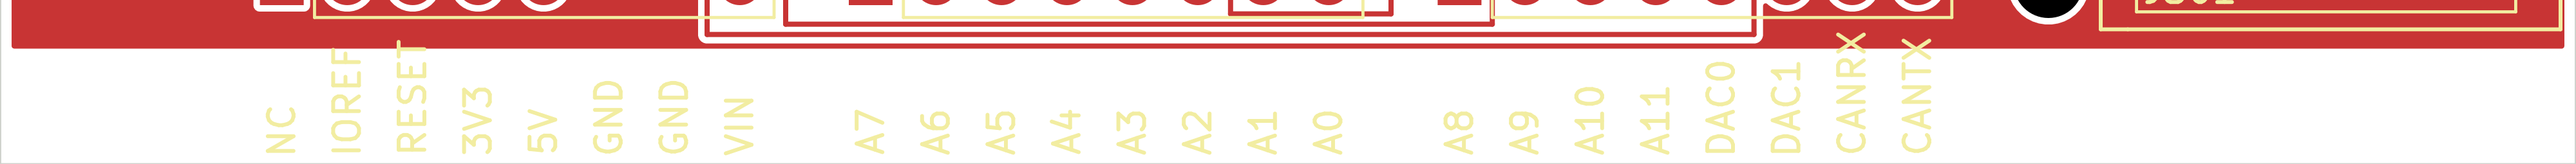
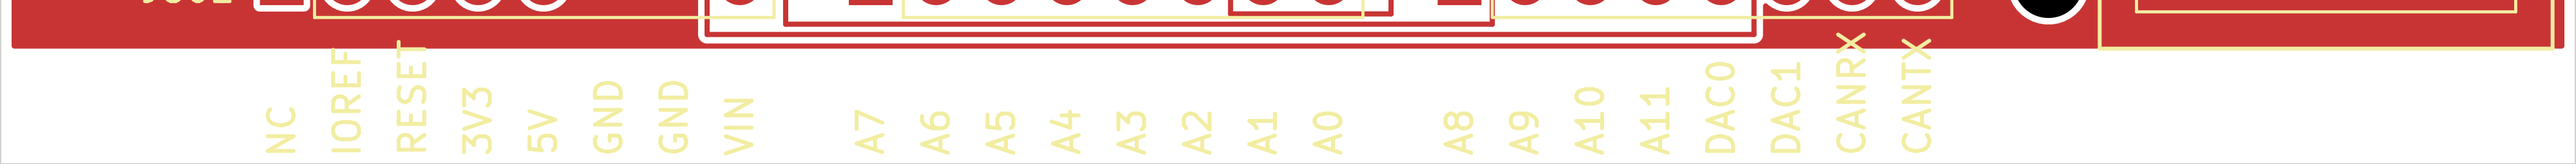
v2: the four stale renders regenerated, and the strict xfail goes
The renders were made before the AFE-2 silk labels landed (renders.json said made
from another board file). Regenerated with v2/layout/render.sh in the image, and v2's
package regenerated with the same stamp: only the render rows of GATE3.md and
data/renders.json change (current true, new hashes); every other package file is
byte-identical, and test_gate3_equivalence passes. The board-hash test no longer
excuses v2.

Claude-Session: https://claude.ai/code/session_01GL7oYC3LK69sf7Yy9PtEQy

diff --git a/hardware/afe-proto/tests/pcbtools/test_gate3_board_hash.py b/hardware/afe-proto/tests/pcbtools/test_gate3_board_hash.py
@@ -37,8 +37,7 @@ def test_the_committed_package_records_the_boards_hash(name):
     assert [s for s in stale(info, renders, board.read_bytes()) if s.startswith('info.json')] == [], f'regenerate {pkg}: python3 -B -m pcbtools.gate3 (see the table\'s docstring)'
 
 
-@pytest.mark.parametrize('name', [pytest.param('v1'), pytest.param('v2', marks=pytest.mark.xfail(
-    strict=True, reason="v2's four renders were made before the AFE-2 silk labels landed (renders.json: made from another board file); regenerate them and drop this mark"))])
+@pytest.mark.parametrize('name', sorted(PACKAGES))
 def test_the_committed_renders_are_the_boards(name):
     pkg, board, info, renders = load(name)
     assert [s for s in stale(info, renders, board.read_bytes()) if s.startswith('render')] == []

diff --git a/hardware/afe-proto/v2/layout/gate3/GATE3.md b/hardware/afe-proto/v2/layout/gate3/GATE3.md
@@ -22,12 +22,10 @@ Generated by `v2/layout/gate3/build_gate3.sh` (`gate3.py`) at 2026-11-17T18:37. 
 
 | view | file | exists | made from this board |
 |---|---|---|---|
-| top (F.Cu + silk) | [afe-v2-integrated-F.Cu-silk.png](../integrated/render/afe-v2-integrated-F.Cu-silk.png) | yes | **no (STALE: made from another board file)** |
-| bottom (B.Cu) | [afe-v2-integrated-B.Cu.png](../integrated/render/afe-v2-integrated-B.Cu.png) | yes | **no (STALE: made from another board file)** |
-| 3D top | [afe-v2-integrated-3d.png](../integrated/render/afe-v2-integrated-3d.png) | yes | **no (STALE: made from another board file)** |
-| 3D bottom | [afe-v2-integrated-3d-bottom.png](../integrated/render/afe-v2-integrated-3d-bottom.png) | yes | **no (STALE: made from another board file)** |
-
-**At least one render was not made from this board file: re-render before publishing** (`v2/layout/render.sh`; it needs `magick`, which x1's image lacks).
+| top (F.Cu + silk) | [afe-v2-integrated-F.Cu-silk.png](../integrated/render/afe-v2-integrated-F.Cu-silk.png) | yes | yes |
+| bottom (B.Cu) | [afe-v2-integrated-B.Cu.png](../integrated/render/afe-v2-integrated-B.Cu.png) | yes | yes |
+| 3D top | [afe-v2-integrated-3d.png](../integrated/render/afe-v2-integrated-3d.png) | yes | yes |
+| 3D bottom | [afe-v2-integrated-3d-bottom.png](../integrated/render/afe-v2-integrated-3d-bottom.png) | yes | yes |
 
 ## 2. LR table (rules LR-1 to LR-11 on the integrated board)
 
